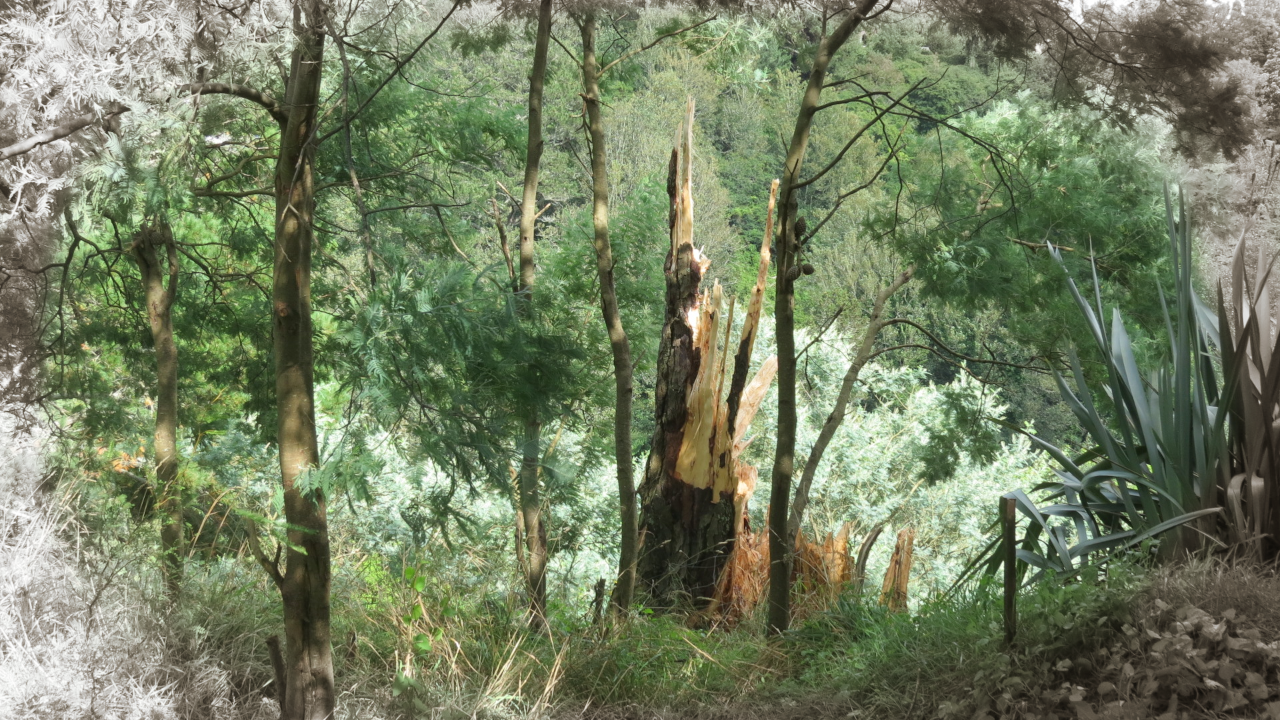
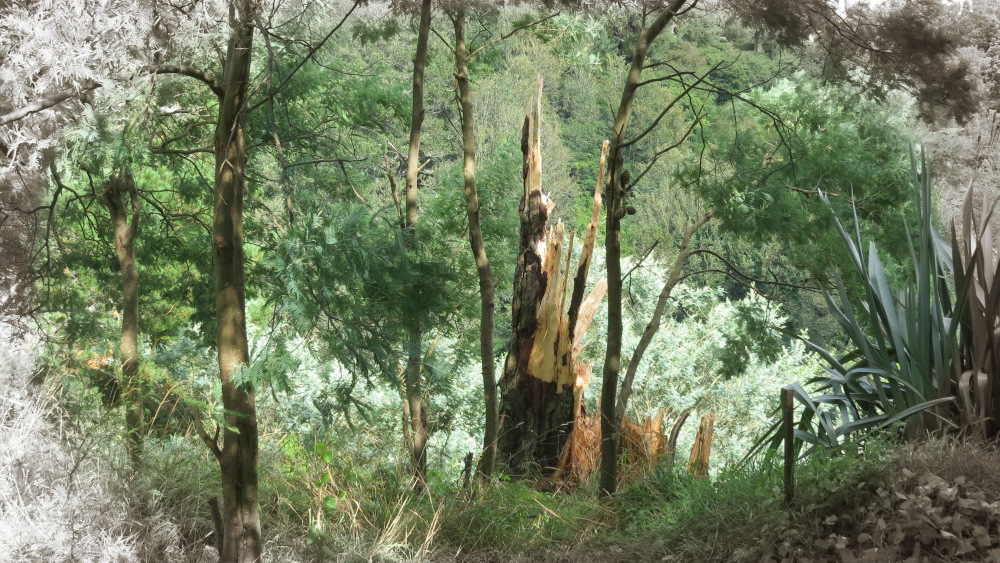
Use a version of the cover image optimised for web

diff --git a/index.html b/index.html
@@ -9,7 +9,7 @@ comment: |
 
 <div id="title">
     <h1 class="centered" style="margin-bottom: 16px;">Hello, World!</h1>
-    <img src="assets/Cover_image.png" width="1000" class="centered focus">
+    <img src="assets/Cover_image_optim.png" width="1000" class="centered focus">
     <p>Hello!! I'm Logan and uhh yeah, this is my website! <br>
         It's not much to look at right now, but I hope to keep working on it and turn it into something I'm proud of! :D</p>
 </div>
